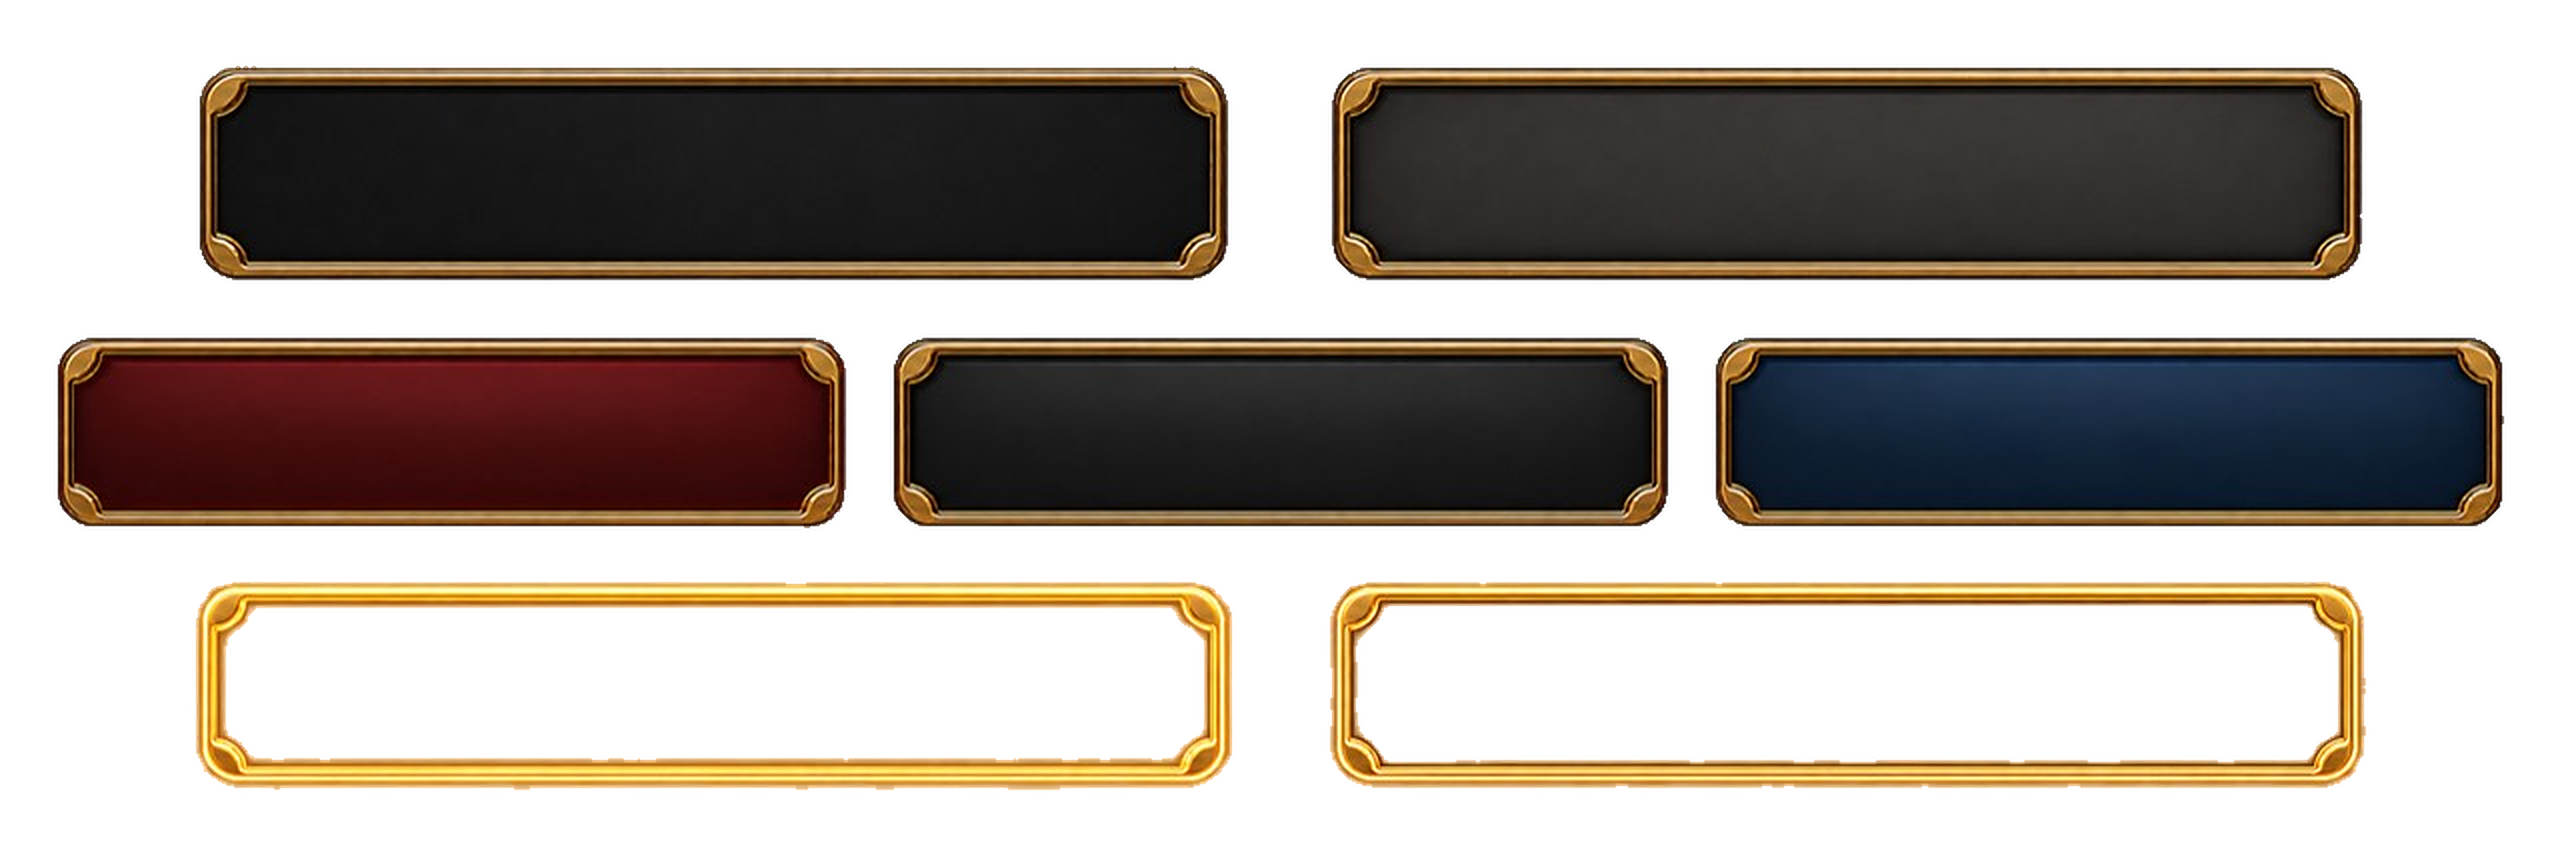
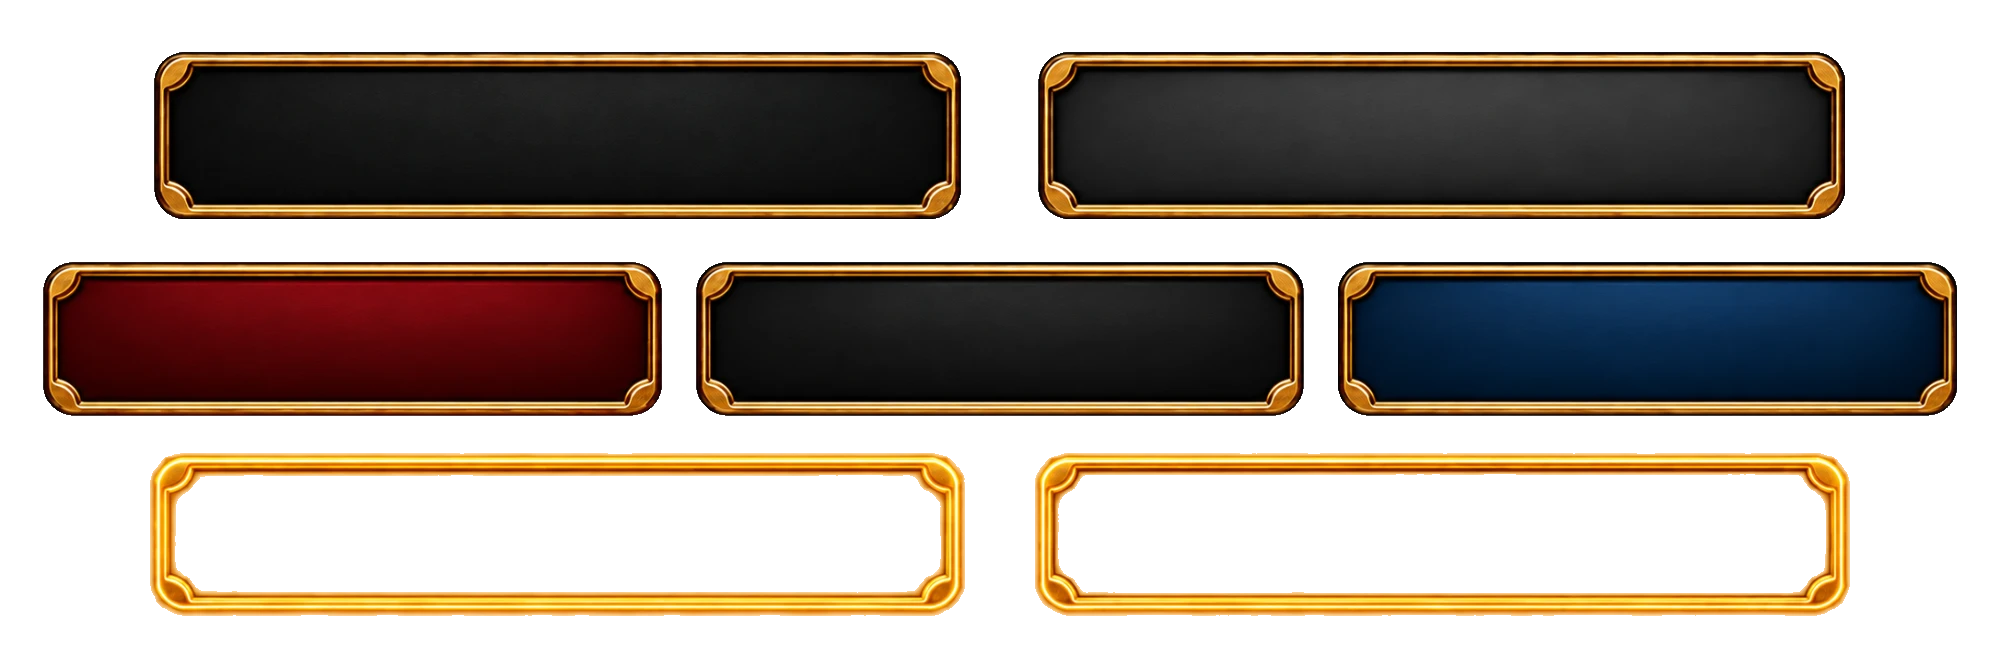
Tarkempi paneeliatlas (2000 px): taustan poisto ja atlaskoordinaattien skaalaus
Claude-Session: https://claude.ai/code/session_01BcUd5sfwAJrCsX9MkMR5gs

Changed region(s): [[0.062, 0.6597, 0.93, 0.9295], [0.0, 0.3898, 0.992, 0.6297], [0.062, 0.06, 0.93, 0.3298]]

diff --git a/Tools/PokerAssets/key_poker_artwork.py b/Tools/PokerAssets/key_poker_artwork.py
@@ -13,10 +13,13 @@ from collections import deque
 from PIL import Image, ImageFilter
 import os
 
-UPSCALE_MIN_WIDTH = 2560   # jos lähdekuva on tätä kapeampi, se suurennetaan 2x; muuten käytetään sellaisenaan
+UPSCALE_MIN_WIDTH = 1900   # jos lähdekuva on tätä kapeampi, se suurennetaan 2x; muuten käytetään sellaisenaan
 UPSCALE = 2   # Unity suurentaa 1280x720-kuvan ruudulle; Lanczos 2x + kevyt terävöinti on tarkempi kuin pelkkä bilineaarinen suurennus
 ART = os.environ.get("POKER_ART", "Assets/Resources/Poker/Artwork")
-JOBS = [("TableOpponents.jpg", "TableOpponentsKeyed.png"), ("Panels.jpg", "PanelsKeyed.png")]
+# (lähde, tulos). Pöytäkuva on nyt valmis TableScene.jpg, joten vain paneeliatlas keyataan.
+# Tarkempi atlas (ArtSources/Poker/ui-panels-hires.png) käytetään, jos se on olemassa.
+HIRES_PANELS = "Assets/ArtSources/Poker/ui-panels-hires.png"
+JOBS = [(HIRES_PANELS if os.path.exists(HIRES_PANELS) else "Panels.jpg", "PanelsKeyed.png")]
 CORE, MIN_POCKET, BAND = 0.90, 16, 2
 FRINGE, GREY_MIN, GREY_SAT, FRINGE_PASSES = 0.60, 0.30, 0.14, 5   # vaalea JPEG-reunus syödään taustaa vasten, kunnes tulee tumma ääriviiva
 
@@ -49,7 +52,7 @@ def background(white, min_pocket):
     return bg
 
 for src, dst in JOBS:
-    rgb = np.asarray(Image.open(os.path.join(ART, src)).convert("RGB")).astype(np.float32) / 255
+    rgb = np.asarray(Image.open(src if os.path.exists(src) else os.path.join(ART, src)).convert("RGB")).astype(np.float32) / 255
     m = rgb.min(2)
     S = rgb.shape[1] / 1280.0                      # lähdekuvan koko suhteessa 1280x720-asetteluun
     UPSCALE = 1 if rgb.shape[1] >= UPSCALE_MIN_WIDTH else 2

diff --git a/Assets/Scripts/Poker/PokerView.cs b/Assets/Scripts/Poker/PokerView.cs
@@ -168,7 +168,7 @@ public sealed class PokerView : MonoBehaviour
     RawImage Raw(Transform parent, Rect r, Texture texture, Material material, Rect? pixels = null)
     {
         var image = Obj(parent, "Artwork", r).AddComponent<RawImage>(); image.texture = texture; image.material = material; image.raycastTarget = false;
-        if (pixels.HasValue && texture != null) { var p = pixels.Value; float k = texture.width / 1280f; p = new Rect(p.x * k, p.y * k, p.width * k, p.height * k); image.uvRect = new Rect(p.x / texture.width, 1 - (p.y + p.height) / texture.height, p.width / texture.width, p.height / texture.height); }
+        if (pixels.HasValue && texture != null) { var p = pixels.Value; float kx = texture.width / 1280f, ky = texture.height / 426f; p = new Rect(p.x * kx, p.y * ky, p.width * kx, p.height * ky);   // atlas on suunniteltu 1280x426-kokoon image.uvRect = new Rect(p.x / texture.width, 1 - (p.y + p.height) / texture.height, p.width / texture.width, p.height / texture.height); }
         if (texture == null) image.color = new Color(.09f, .07f, .055f); return image;
     }
     Text Label(Transform parent, Rect r, string value, int size, Color color)
